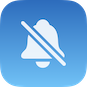
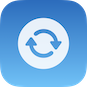
add artworks

Changed region(s): [[0.1839, 0.1839, 0.8046, 0.8046]]

diff --git a/Artworks/IconDrawer.swift b/Artworks/IconDrawer.swift
@@ -1,0 +1,119 @@
+//
+//  IconDrawer.swift
+//  TRApp
+//
+//  Created by 秋星桥 on 2024/3/6.
+//
+
+// swiftc -parse-as-library IconDrawer.swift
+// ./IconDrawer
+
+import QuickLook
+import SwiftUI
+
+@main
+struct DemoApp: App {
+    var body: some Scene {
+        WindowGroup {
+            ContentView()
+        }
+        .windowResizability(.contentSize)
+    }
+}
+
+let previewSize = CGSize(width: 1024, height: 1024)
+let symbolWidth: CGFloat = 600
+
+struct ContentView: View {
+    var body: some View {
+        PreviewExporter()
+            .scaleEffect(.init(width: 0.5, height: 0.5))
+            .frame(width: previewSize.width / 2, height: previewSize.height / 2, alignment: .center)
+    }
+}
+
+struct PreviewWaveformView: View {
+    let waveWidth: CGFloat = 32
+    let waveHeight: CGFloat = symbolWidth
+    let waveSpacing: CGFloat = 32
+
+    struct Waves: Identifiable, Equatable {
+        var id: UUID = .init()
+        var height: CGFloat
+    }
+
+    let waves: [Waves]
+
+    init() {
+        var builder = [Waves]()
+        let targetCount = 128
+        while builder.count < targetCount {
+            builder.append(.init(height: .random(in: 0.2 ... 1.0)))
+        }
+        while builder.count > targetCount {
+            builder.removeLast()
+        }
+        waves = builder
+    }
+
+    var body: some View {
+        HStack(alignment: .center, spacing: waveSpacing) {
+            ForEach(waves) { wave in
+                RoundedRectangle(cornerRadius: waveWidth / 2)
+                    .frame(width: waveWidth, height: waveHeight * wave.height)
+                    .animation(.spring, value: wave.height)
+            }
+        }
+        .frame(maxHeight: .infinity)
+        .padding(-8)
+    }
+}
+
+struct PreviewBannerView: View {
+    var body: some View {
+        ZStack {
+            Image(systemName: "arrow.2.circlepath.circle.fill")
+                .resizable()
+                .aspectRatio(contentMode: .fit)
+                .frame(width: symbolWidth, height: symbolWidth)
+                .font(.system(size: symbolWidth, weight: .regular, design: .rounded))
+                .opacity(0.88)
+                .padding(72)
+        }
+        .foregroundStyle(.white)
+        .frame(maxWidth: .infinity, maxHeight: .infinity)
+        .padding(50)
+        .background {
+            LinearGradient(
+                gradient: Gradient(colors: [
+                    // 2c6cbc
+                    // 71c3f7
+                    Color(red: 0x2c / 255, green: 0x6c / 255, blue: 0xbc / 255),
+                    Color(red: 0x71 / 255, green: 0xc3 / 255, blue: 0xf7 / 255),
+                ]),
+                startPoint: .top,
+                endPoint: .bottom
+            )
+            .ignoresSafeArea()
+        }
+        .frame(width: previewSize.width, height: previewSize.height, alignment: .center)
+        .clipped()
+    }
+}
+
+struct PreviewExporter: View {
+    var body: some View {
+        VStack {
+            PreviewBannerView()
+                .onTapGesture {
+                    let renderer = ImageRenderer(content: PreviewBannerView())
+                    let data = renderer.nsImage!.tiffRepresentation!
+                    let url = URL(fileURLWithPath: NSTemporaryDirectory())
+                        .appendingPathComponent("AppIcon")
+                        .appendingPathExtension("tiff")
+                    try! data.write(to: url)
+                    NSWorkspace.shared.open(url)
+                }
+        }
+    }
+}
